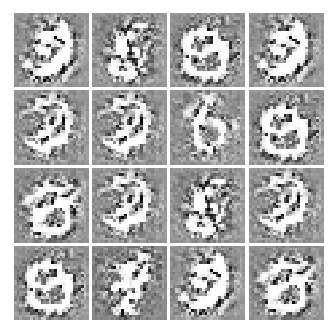
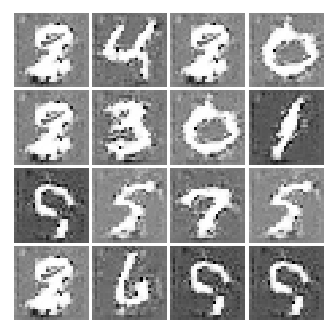
test run

diff --git a/cDCGAN.py b/cDCGAN.py
@@ -110,6 +110,7 @@ class Discriminator(nn.Module):
         # print("fc1", out.shape)
         out = self.fc2(out)
         # print("fc2", out.shape)
+        out = self.fc3(out)
         return out
 
 # class Generator(nn.Module):
@@ -280,6 +281,6 @@ def train_gan(generator, discriminator, image_loader, epochs, num_train_batches=
 generator = Generator()
 discriminator = Discriminator()
 image_loader = train_loader
-epochs = 25
+epochs = 50
 num_train_batches = -1
 train_gan(generator, discriminator, image_loader, epochs, num_train_batches=num_train_batches)
